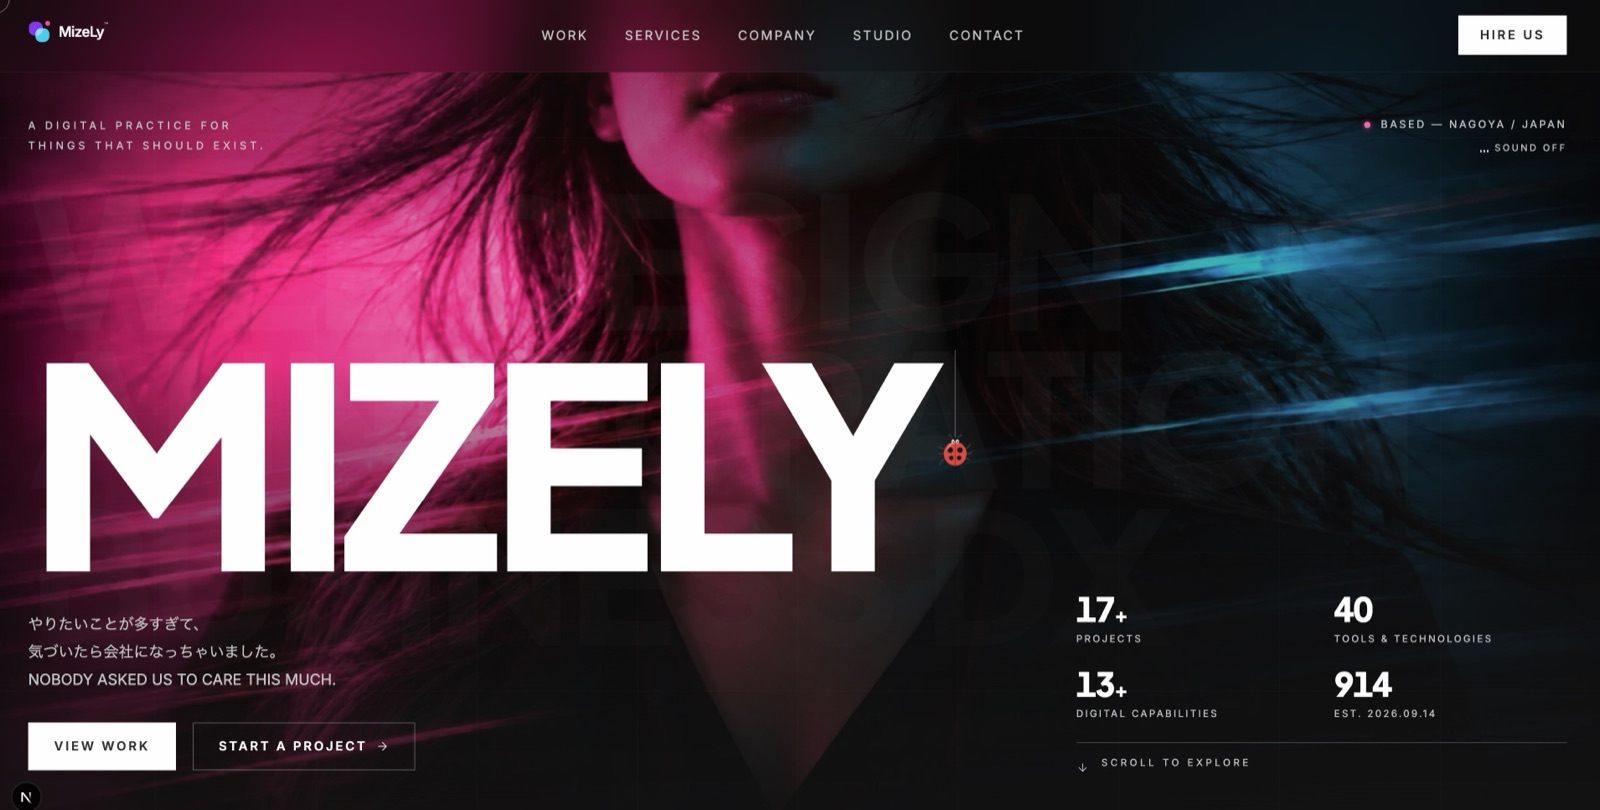
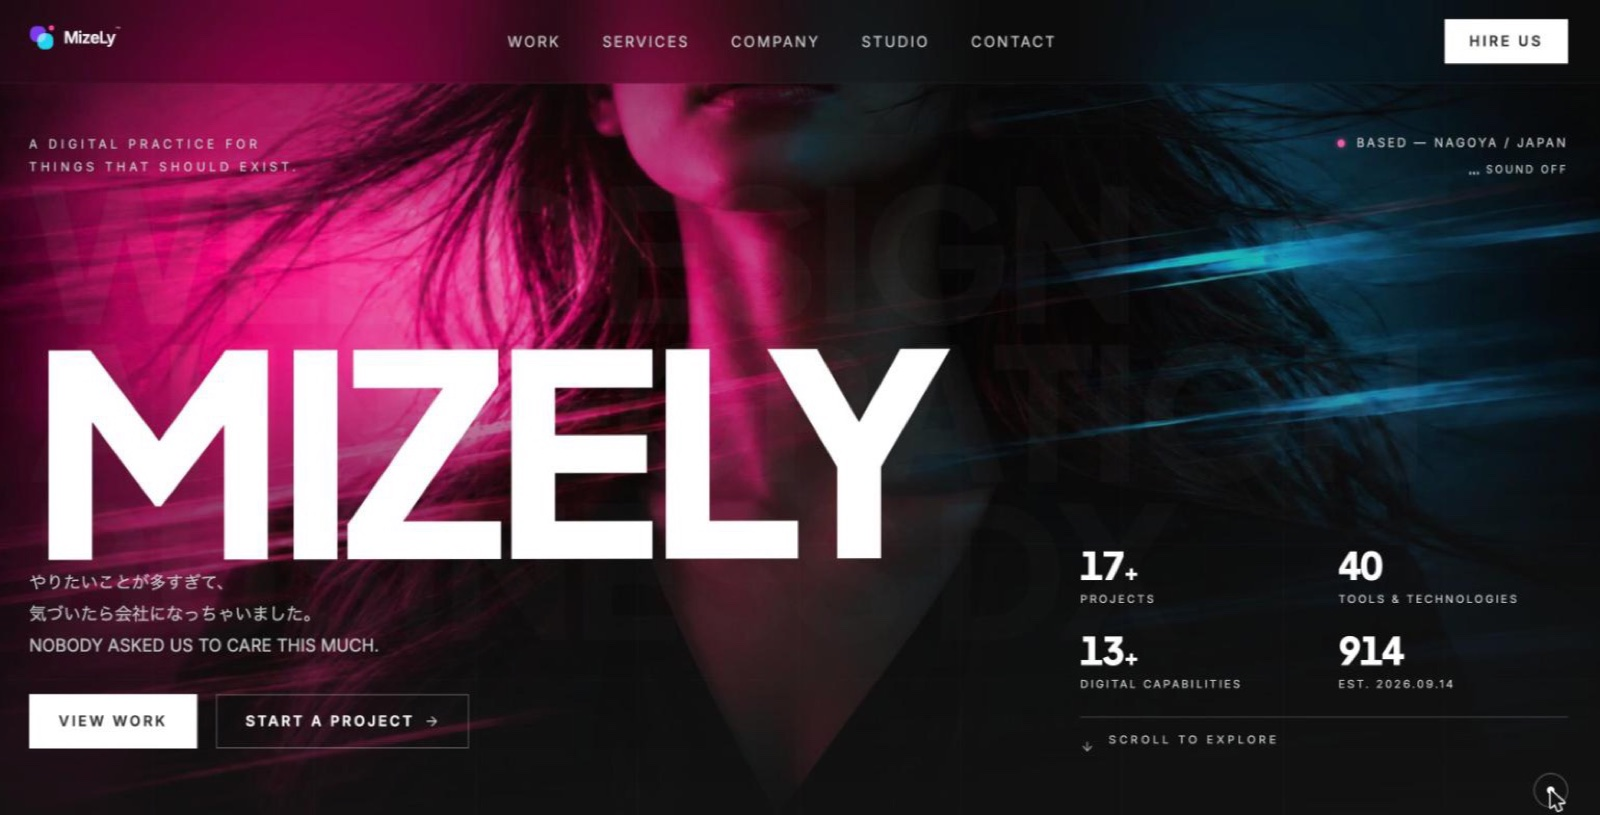
ポートフォリオ: MizeLyサイトに会社紹介ページを重ねて表示・技術欄を追加・トップのスクショを撮り直し

diff --git a/index.html b/index.html
@@ -2,7 +2,7 @@
 <html lang="ja"><head><meta charset="utf-8"><meta name="viewport" content="width=device-width,initial-scale=1">
 <title>Mize — Web, AI & Creative Development</title><meta name="description" content="Mizeのポートフォリオ。Web・AIアプリの個人開発、MizeLyでのWebサイト・動画制作。RewardMe、CodeLensAI、DebugMeなどの制作内容と使用技術を紹介します。">
 <link rel="canonical" href="https://mize1978.github.io/"><meta property="og:type" content="website"><meta property="og:site_name" content="Mize Portfolio"><meta property="og:title" content="Mize — Web, AI & Creative Development"><meta property="og:description" content="考えを、使えるかたちへ。Web・AI・映像をつなぐ制作と開発。"><meta property="og:url" content="https://mize1978.github.io/"><meta property="og:image" content="https://mize1978.github.io/og.jpg"><meta name="twitter:card" content="summary_large_image">
-<link rel="stylesheet" href="portfolio.css?v=20261015-dx"><link rel="preconnect" href="https://fonts.googleapis.com"><link rel="preconnect" href="https://fonts.gstatic.com" crossorigin><link href="https://fonts.googleapis.com/css2?family=DM+Sans:wght@400;500;600;700&family=Noto+Sans+JP:wght@400;500;700&display=swap" rel="stylesheet"></head><body id="top">
+<link rel="stylesheet" href="portfolio.css?v=20261015-company"><link rel="preconnect" href="https://fonts.googleapis.com"><link rel="preconnect" href="https://fonts.gstatic.com" crossorigin><link href="https://fonts.googleapis.com/css2?family=DM+Sans:wght@400;500;600;700&family=Noto+Sans+JP:wght@400;500;700&display=swap" rel="stylesheet"></head><body id="top">
 <a class="skip" href="#main">本文へ移動</a><header class="header"><a class="logo" href="#top">Mize<span>✳</span></a><nav aria-label="メイン"><a href="#work">Work</a><a href="#practice">Practice</a><a href="#about">About</a><a class="contact-nav" href="mailto:mize@mizely.jp">Contact <span>↗</span></a></nav></header>
 <main id="main"><section class="hero"><div class="hero-copy"><p class="eyebrow"><span class="line"></span> WEB · AI · CREATIVE DEVELOPMENT</p><h1>Ideas into<br><em>something</em><br>real<span class="gold">.</span></h1><p class="hero-ja">考えを、使えるかたちへ。</p><p class="hero-note">つくるだけで終わらない。<br>人が使い、理解できる体験まで。</p><a class="text-link" href="#work">制作・開発を見る <span>↘</span></a></div><div class="hero-art kinetic-gallery"><span class="gallery-label">FIVE IDEAS / IN ROTATION</span><div class="gallery-stage cyl-stage"><div class="cyl-ring" id="cyl-ring" style="--S:6;--N:35"><a class="cyl-work" href="#ex-reward" aria-label="RewardMe" style="--w:0;--img:url('banner-rewardme.jpg')"><i style="--j:0"></i><i style="--j:1"></i><i style="--j:2"></i><i style="--j:3"></i><i style="--j:4"></i><i style="--j:5"></i><span>RewardMe</span></a><a class="cyl-work" href="#ex-lens" aria-label="CodeLensAI" style="--w:1;--img:url('banner-codelensai.jpg')"><i style="--j:0"></i><i style="--j:1"></i><i style="--j:2"></i><i style="--j:3"></i><i style="--j:4"></i><i style="--j:5"></i><span>CodeLensAI</span></a><a class="cyl-work" href="#ex-debug" aria-label="DebugMe" style="--w:2;--img:url('banner-debugme.jpg')"><i style="--j:0"></i><i style="--j:1"></i><i style="--j:2"></i><i style="--j:3"></i><i style="--j:4"></i><i style="--j:5"></i><span>DebugMe</span></a><a class="cyl-work" href="#ex-frame" aria-label="FrameLens" style="--w:3;--img:url('banner-framelens.jpg')"><i style="--j:0"></i><i style="--j:1"></i><i style="--j:2"></i><i style="--j:3"></i><i style="--j:4"></i><i style="--j:5"></i><span>FrameLens</span></a><a class="cyl-work" href="#ex-bug" aria-label="Bug Generator" style="--w:4;--img:url('banner-buggenerator-original.png')"><i style="--j:0"></i><i style="--j:1"></i><i style="--j:2"></i><i style="--j:3"></i><i style="--j:4"></i><i style="--j:5"></i><span>Bug Generator</span></a></div></div><div class="gallery-controls"><span>EXPLORE THE COLLECTION ↗</span><button type="button" id="gallery-toggle" aria-pressed="false">動きを止める Ⅱ</button></div></div><div class="hero-bottom"><span>PORTFOLIO — 2026</span><span>DESIGNED & DEVELOPED BY MIZE</span><a href="#work" aria-label="作品一覧へ">SCROLL TO EXPLORE ↓</a></div></section>
 <section class="intro"><p class="eyebrow">THE APPROACH</p><h2>技術と表現のあいだに、<br><span>使う人の視点を。</span></h2><p>課題を整理し、設計し、動くものにする。<br>Webアプリ、AI、サイト、映像。<br>目的に合わせて技術を選び、かたちにしています。</p></section>
@@ -12,7 +12,7 @@
 <div class="project-row"><article class="project" id="ex-debug"><div class="project-visual debug selected-dome"><span class="visual-number">03</span><img src="cases/debugme-selected.png" alt="DebugMeの作品ビジュアル" loading="lazy" decoding="async" width="1024" height="1536"><span class="visual-word">DebugMe</span></div><div class="project-copy"><p class="eyebrow">03 / PERSONAL PROJECT</p><h3>DebugMe</h3><p class="project-title">考えの詰まりを、<br>言葉にする。</p><p class="project-desc">悩みや考えをログに変換する思考整理アプリ。SSEによるAIのストリーミング応答で、対話の流れを途切れさせない。</p><p class="tech">Ruby on Rails / Claude API / SSE / Hotwire</p><div class="project-links"><a href="https://debugme-2m5k.onrender.com/" target="_blank" rel="noopener noreferrer">Live site <span>↗</span></a><a href="https://github.com/mize1978/debugme" target="_blank" rel="noopener noreferrer">Source code <span>↗</span></a></div><details><summary>プロジェクトビジュアルを見る <span>＋</span></summary><img src="banner-debugme-original.png" alt="DebugMeの紹介用ビジュアル" loading="lazy" decoding="async" width="1672" height="941"></details></div></article>
 <article class="project" id="ex-frame"><div class="project-visual frame selected-dome"><span class="visual-number">04</span><img src="cases/framelens-selected.png" alt="FrameLensの作品ビジュアル" loading="lazy" decoding="async" width="1024" height="1536"><span class="visual-word">FrameLens</span></div><div class="project-copy"><p class="eyebrow">04 / PERSONAL PROJECT</p><h3>FrameLens</h3><p class="project-title">見えない構造に、<br>輪郭を与える。</p><p class="project-desc">C++をWebAssembly化し、ブラウザで描画する可視化の個人開発。Webとグラフィックスの境界を探索する。</p><p class="tech">C++ / OpenGL / WebAssembly / WebGL2 / Emscripten</p><div class="project-links"><a href="https://mize1978.github.io/framelens/" target="_blank" rel="noopener noreferrer">Live site <span>↗</span></a><a href="https://github.com/mize1978/FrameLens" target="_blank" rel="noopener noreferrer">Source code <span>↗</span></a></div><details><summary>プロジェクトビジュアルを見る <span>＋</span></summary><img src="banner-framelens-original.png" alt="FrameLensの紹介用ビジュアル" loading="lazy" decoding="async" width="1536" height="1024"></details></div></article>
 <article class="project" id="ex-bug"><div class="project-visual bug selected-dome"><span class="visual-number">05</span><img src="cases/buggenerator-selected.png" alt="Bug Generatorの作品ビジュアル" loading="lazy" decoding="async" width="1024" height="1536"><span class="visual-word">Bug Generator</span></div><div class="project-copy"><p class="eyebrow">05 / PERSONAL PROJECT</p><h3>Bug Generator</h3><p class="project-title">エラーを、<br>学びの入口に。</p><p class="project-desc">バグやエラーを遊びに変える実験的なアプリ。RailsとStimulusを組み合わせ、動的な体験をつくる。</p><p class="tech">Ruby on Rails / Hotwire / Stimulus</p><div class="project-links"><a href="https://bug-generator.onrender.com/" target="_blank" rel="noopener noreferrer">Live site <span>↗</span></a><a href="https://github.com/mize1978/bug_generator" target="_blank" rel="noopener noreferrer">Source code <span>↗</span></a></div><details><summary>プロジェクトビジュアルを見る <span>＋</span></summary><img src="banner-buggenerator-original.png" alt="Bug Generatorの紹介用ビジュアル" loading="lazy" decoding="async" width="1726" height="911"></details></div></article></div>
-</div><div class="section-head"><div><p class="eyebrow">WEB DESIGN & DEVELOPMENT</p><h2>Web <em>works.</em></h2></div><p>株式会社 MizeLyでのWeb制作。</p></div><div class="practice-grid web-work-grid"><article><figure class="web-shot"><img src="cases/web-mizely.jpg" alt="MizeLy コーポレートサイトのトップ画面" width="1600" height="810" loading="lazy" decoding="async"></figure><p class="eyebrow">MIZELY / 自社サイト</p><h3>MizeLy<br>コーポレートサイト</h3><p>担当：Webデザイン・開発。<br>映像とタイポグラフィを組み合わせたコーポレートサイト。</p><span class="status">公開準備中</span></article><article><figure class="web-shot"><img src="cases/web-clinic.jpg" alt="内科・小児科医院サイトのトップ画面" width="1600" height="829" loading="lazy" decoding="async"></figure><p class="eyebrow">WEB DESIGN & DEVELOPMENT</p><h3>内科・小児科医院の<br>Webサイト制作</h3><p>診療時間・休診情報の表示、スマートフォン対応、SEOの基本設定・構造化データを実装。必要な情報へ迷わずたどり着けるサイトを目指して。</p><p class="tech">Astro / HTML / CSS / JavaScript</p><span class="status">公開準備中</span></article></div></section><section id="practice" class="practice"><div class="section-head"><div><p class="eyebrow">02 / PROFESSIONAL PRACTICE</p><h2>Beyond the <em>screen.</em></h2></div><p>株式会社 MizeLyでの制作。<br>情報を、伝わる体験に。</p></div><div class="practice-grid"><article><p class="eyebrow">AI VIDEO & VISUAL STORYTELLING</p><div class="abstract-video" aria-hidden="true"><span class="play">▷</span><div class="timeline"><i></i><i></i><i></i><i></i></div></div><h3>企業向け<br>プレゼンテーション動画</h3><p>台本作成から映像・音声・音楽素材の制作、編集まで。生成AIと映像編集ソフトを組み合わせ、伝えたい内容を一本の動画に。</p><p class="tech">Veo / Runway / Sora / ElevenLabs / Suno / Udio<br>DaVinci Resolve / Adobe After Effects</p><span class="status">制作実績</span></article><article><p class="eyebrow">BUSINESS DX / EVIDENCE ENGINE</p><div class="abstract-evidence" aria-hidden="true"><div class="ev-flow"><span>原本<small>PDF·SHA-256</small></span><b>→</b><span>条件<small>資格·体制·地域</small></span><b>→</b><span>判定<small>3段階</small></span></div><div class="ev-results"><i class="go">GO</i><i class="no">NO-GO</i><i class="un">未確認</i></div><p class="ev-trace">↳ p.3 第5条「…を有すること」</p></div><h3>公共工事の<br>入札参加判定ツール</h3><p>公告の原本をもとに、参加条件をひとつずつ照合。判定の根拠を、資料のページと条文までたどれる仕組みに。</p><p class="tech">Python / SQLite / CLI</p><span class="status">v0.1 完成・非公開</span></article></div></section>
+</div><div class="section-head"><div><p class="eyebrow">WEB DESIGN & DEVELOPMENT</p><h2>Web <em>works.</em></h2></div><p>株式会社 MizeLyでのWeb制作。</p></div><div class="practice-grid web-work-grid"><article><figure class="web-shot web-shot-stack"><img src="cases/web-mizely.jpg" alt="MizeLy コーポレートサイトのトップ画面" width="1600" height="815" loading="lazy" decoding="async"><img class="web-shot-layer" src="cases/web-mizely-company.jpg" alt="MizeLy 会社紹介ページ。手帳を開いたようなレイアウト" width="1600" height="815" loading="lazy" decoding="async"></figure><p class="eyebrow">MIZELY / 自社サイト</p><h3>MizeLy<br>コーポレートサイト</h3><p>担当：Webデザイン・開発。<br>映像とタイポグラフィを組み合わせたコーポレートサイト。</p><p class="tech">Next.js / React / TypeScript / Tailwind CSS<br>GSAP / Motion / WebGL</p><span class="status">公開準備中</span></article><article><figure class="web-shot"><img src="cases/web-clinic.jpg" alt="内科・小児科医院サイトのトップ画面" width="1600" height="829" loading="lazy" decoding="async"></figure><p class="eyebrow">WEB DESIGN & DEVELOPMENT</p><h3>内科・小児科医院の<br>Webサイト制作</h3><p>診療時間・休診情報の表示、スマートフォン対応、SEOの基本設定・構造化データを実装。必要な情報へ迷わずたどり着けるサイトを目指して。</p><p class="tech">Astro / HTML / CSS / JavaScript</p><span class="status">公開準備中</span></article></div></section><section id="practice" class="practice"><div class="section-head"><div><p class="eyebrow">02 / PROFESSIONAL PRACTICE</p><h2>Beyond the <em>screen.</em></h2></div><p>株式会社 MizeLyでの制作。<br>情報を、伝わる体験に。</p></div><div class="practice-grid"><article><p class="eyebrow">AI VIDEO & VISUAL STORYTELLING</p><div class="abstract-video" aria-hidden="true"><span class="play">▷</span><div class="timeline"><i></i><i></i><i></i><i></i></div></div><h3>企業向け<br>プレゼンテーション動画</h3><p>台本作成から映像・音声・音楽素材の制作、編集まで。生成AIと映像編集ソフトを組み合わせ、伝えたい内容を一本の動画に。</p><p class="tech">Veo / Runway / Sora / ElevenLabs / Suno / Udio<br>DaVinci Resolve / Adobe After Effects</p><span class="status">制作実績</span></article><article><p class="eyebrow">BUSINESS DX / EVIDENCE ENGINE</p><div class="abstract-evidence" aria-hidden="true"><div class="ev-flow"><span>原本<small>PDF·SHA-256</small></span><b>→</b><span>条件<small>資格·体制·地域</small></span><b>→</b><span>判定<small>3段階</small></span></div><div class="ev-results"><i class="go">GO</i><i class="no">NO-GO</i><i class="un">未確認</i></div><p class="ev-trace">↳ p.3 第5条「…を有すること」</p></div><h3>公共工事の<br>入札参加判定ツール</h3><p>公告の原本をもとに、参加条件をひとつずつ照合。判定の根拠を、資料のページと条文までたどれる仕組みに。</p><p class="tech">Python / SQLite / CLI</p><span class="status">v0.1 完成・非公開</span></article></div></section>
 <section class="about" id="about"><div><p class="eyebrow">03 / THE PERSON BEHIND THE WORK</p><h2>Mize<span>✳</span></h2><p class="about-role">Web development. AI. Visual storytelling.</p></div><div class="about-copy"><p class="about-lead">好奇心を、<br>動くものに。</p><p>Web、AI、デザイン、映像。<br>領域を決めずに、考え、つくり、試す。<br>思いついたことを、実際に触れられる体験へ。</p><p>株式会社 MizeLy 代表取締役。<br>Webサイト制作・アプリケーション開発・映像制作に取り組んでいます。</p><dl class="skills"><div><dt>01 / WEB & APPLICATION</dt><dd>Next.js / React / TypeScript / Astro<br>Ruby on Rails / Laravel / Hotwire / JavaScript</dd></div><div><dt>02 / AI & DATA</dt><dd>Claude API / OpenAI API<br>Supabase / PostgreSQL / MySQL</dd></div><div><dt>03 / GRAPHICS & CREATIVE</dt><dd>C++ / OpenGL / WebGL2<br>WebAssembly / Emscripten</dd></div><div><dt>04 / TOOLS & INFRASTRUCTURE</dt><dd>Docker / Git / GitHub<br>Render / GitHub Actions / AWS (Learning)</dd></div><div><dt>05 / DESIGN & CREATIVE TOOLS</dt><dd>UI/UX Design / Web Design<br>Responsive Design / Visual Design<br>Framer / Figma</dd></div></dl><a class="text-link" href="https://zenn.dev/mizel1978" target="_blank" rel="noopener noreferrer">技術記事を読む <span>↗</span></a></div></section>
 <section class="contact" id="contact"><p class="eyebrow">LET’S MAKE SOMETHING MEANINGFUL</p><h2>Next idea.<br><em>Let’s talk.</em><span>↗</span></h2><div class="contact-bottom"><p>制作・開発についてのご相談は、こちらから。</p><a href="mailto:mize@mizely.jp">mize@mizely.jp ↗</a></div></section></main>
 <footer><a class="logo" href="#top">Mize<span>✳</span></a><p><a class="footer-company" href="https://mizely.jp/" target="_blank" rel="noopener noreferrer"><img src="mizely-symbol.svg" alt="" width="13" height="13">© 2026 MizeLy Inc.</a> Crafted with intention.</p><div><a href="https://github.com/mize1978" target="_blank" rel="noopener noreferrer">GitHub ↗</a><a href="https://zenn.dev/mizel1978" target="_blank" rel="noopener noreferrer">Zenn ↗</a><a href="https://x.com/mizelategm66172" target="_blank" rel="noopener noreferrer">X ↗</a></div></footer><script>

diff --git a/portfolio.css b/portfolio.css
@@ -218,3 +218,9 @@ footer p{font-size:11px}
 .ev-results .go{border-color:var(--gold);color:var(--gold)}
 .ev-trace{font-family:var(--serif);font-style:italic;font-size:14px;color:var(--soft)}
 @media(max-width:640px){.abstract-evidence{padding:22px 16px}.ev-flow{gap:6px}.ev-flow span{font-size:12px;padding:10px 4px}.ev-flow small{font-size:9px;letter-spacing:0;white-space:nowrap}}
+/* ===== Web works: MizeLy は2画面を重ねる（トップ＋会社紹介） ===== */
+.web-shot-stack>img:first-child{object-position:top left}
+.web-shot.web-shot-stack .web-shot-layer{position:absolute;right:2.5%;bottom:5%;width:40%;height:auto;aspect-ratio:1600/815;object-fit:cover;
+  border:1px solid #ffffff2e;box-shadow:0 18px 40px #000a;transform:rotate(-2.5deg);z-index:1}
+.web-shot.web-shot-stack::after{z-index:2}
+@media(max-width:640px){.web-shot.web-shot-stack .web-shot-layer{width:40%;right:2.5%;bottom:5%}}
